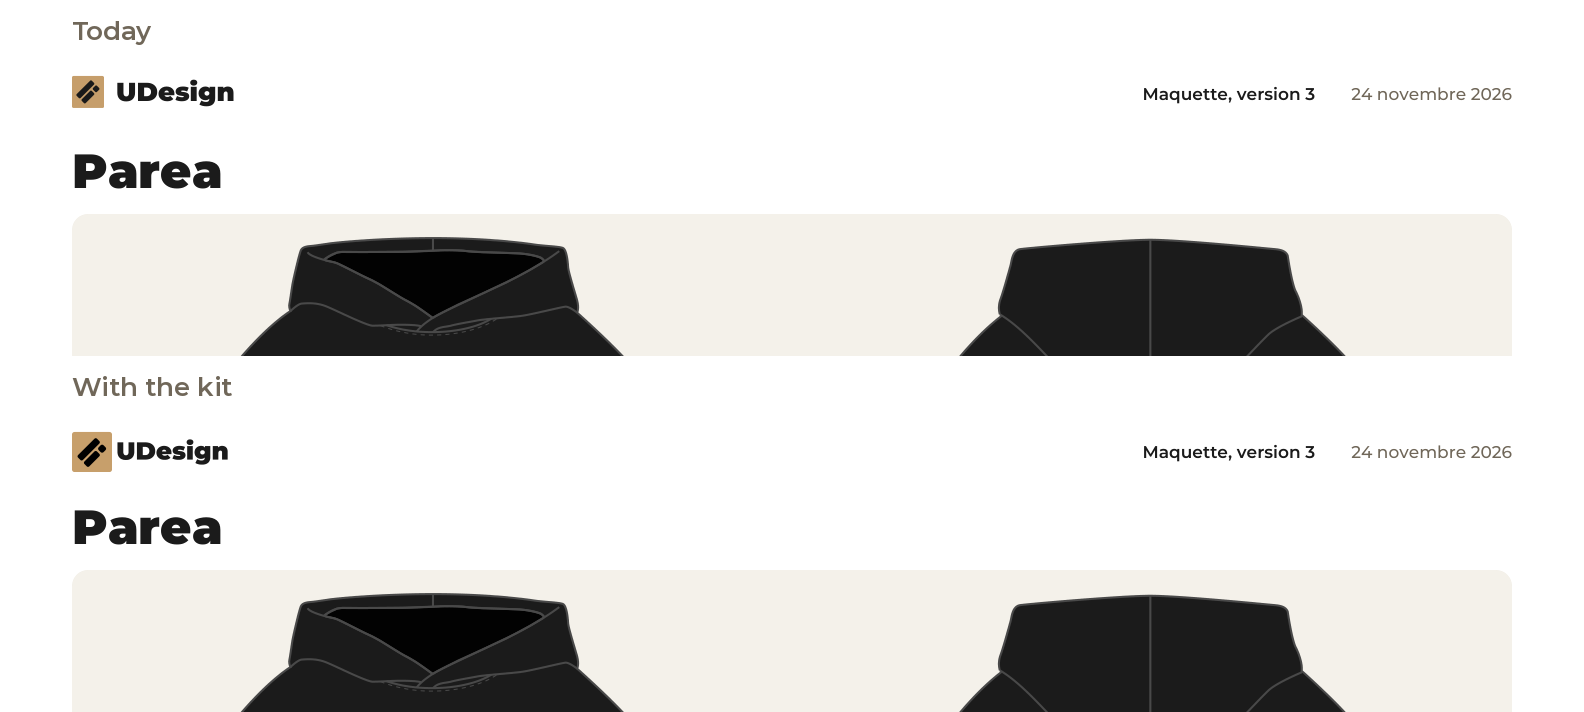
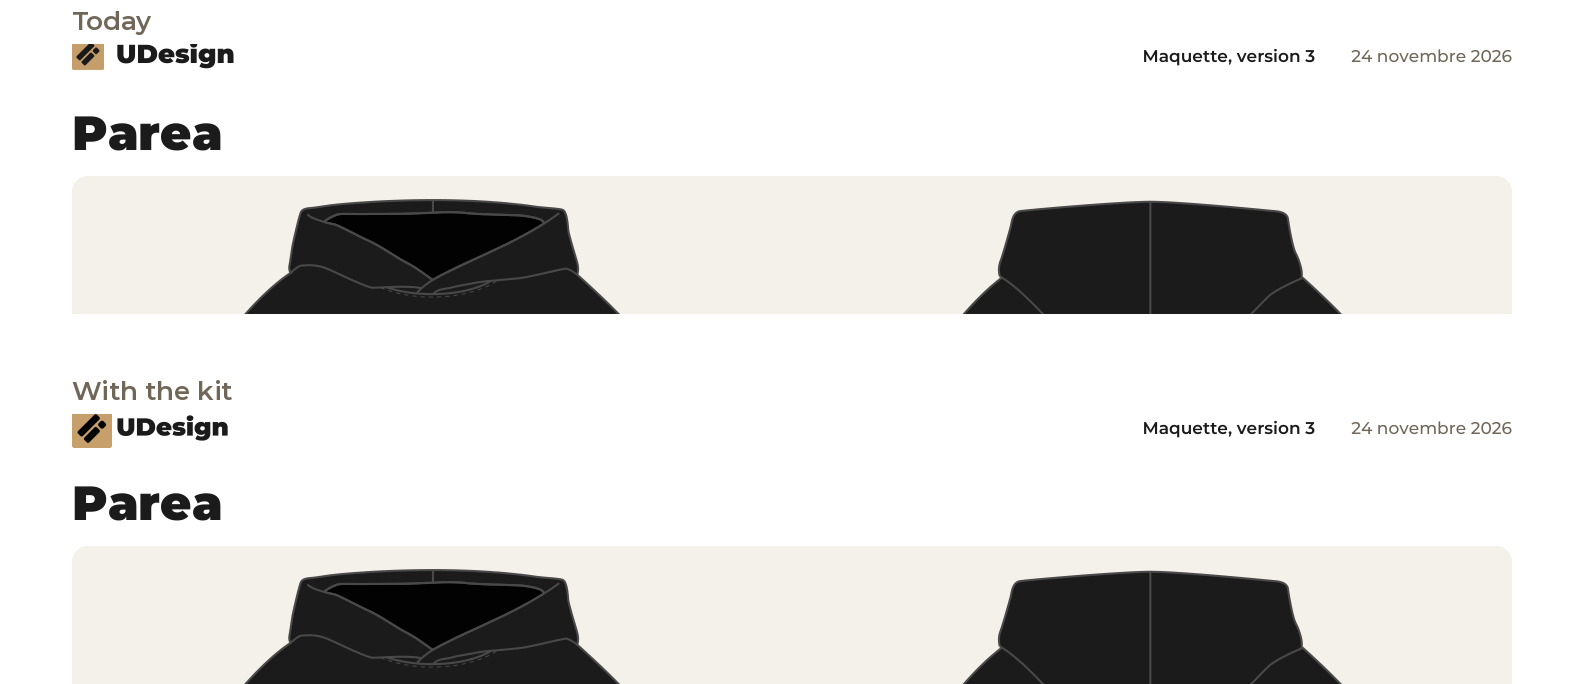
fix(print): second review pass
- footer(numbered=False) for a one-page document: the contact goes to the
  right margin.
- "swatch" everywhere (was "chip" on the sheet), as the token and method say.
- The zero-radius test asserts a plain rectangle, apart from the badge test.
- Header comparison image: each label sits with its own header.
- Showcase copy: "text" instead of a repeated "type".

Refs ECH-396

Claude-Session: https://claude.ai/code/session_01WJJUV36PGc4qv3p2RRFUpK

diff --git a/showcase/src/pages/Print.tsx b/showcase/src/pages/Print.tsx
@@ -20,7 +20,7 @@ export function Print() {
         </div>
         <p>
           Client PDFs: mockups, font comparisons, labels. Once approved and released, each PDF skill draws its header,
-          footer, type and cards with one kit, from print/print.tokens.json, so they all print the same logo, colours
+          footer, text and cards with one kit, from print/print.tokens.json, so they all print the same logo, colours
           and type. Today each skill draws its own.
         </p>
       </header>

diff --git a/print/reference.py b/print/reference.py
@@ -17,7 +17,7 @@ import pymupdf as fitz  # noqa: E402
 from udprint import Kit  # noqa: E402
 
 COLOURS = [
-    ('paper', 'The page'), ('ink', 'Text'), ('muted', 'Secondary text'), ('hairline', 'Rules, chip edges'),
+    ('paper', 'The page'), ('ink', 'Text'), ('muted', 'Secondary text'), ('hairline', 'Rules, swatch edges'),
     ('field', 'Under a product'), ('field-deep', 'Under a white product'), ('card', 'A decision card'),
     ('accent', 'Tile, badge, tag'),
 ]
@@ -106,7 +106,7 @@ def build(out, png_dir=None):
                          'caption', col, 2):
         kit.text(page, x, y, line, 'caption')
         y += 11
-    kit.text(page, x, y, 'Radii: field %g, card %g, tag %g, chip %g pt.' % tuple(
+    kit.text(page, x, y, 'Radii: field %g, card %g, tag %g, swatch %g pt.' % tuple(
         kit.t.number('radius.' + k) for k in ('field', 'card', 'tag', 'swatch')), 'caption')
     y += 26
     kit.text(page, x, y, 'Departures from the presentation profile', 'label')
@@ -115,7 +115,8 @@ def build(out, png_dir=None):
         y += 13
         kit.text(page, x, y, kit.ellipsize(line, 'body', col), 'body')
 
-    kit.footer(page, 'Reference sheet. Print at 100% to check sizes.', ['udesignproductions.com', '819 481-1022'])
+    kit.footer(page, 'Reference sheet. Print at 100% to check sizes.', ['udesignproductions.com', '819 481-1022'],
+               numbered=False)
     kit.finish(doc, out, 'UDesign print kit')
     pngs = []
     if png_dir:

diff --git a/print/tests/test_udprint.py b/print/tests/test_udprint.py
@@ -135,13 +135,18 @@ class ChromeTests(unittest.TestCase):
         with self.assertRaises(ValueError):
             self.kit.box(odd)
 
-    def test_badge_draws_its_method_icon_and_zero_radius_is_allowed(self):
+    def test_badge_draws_its_method_icon(self):
         page, b = self.kit.new_page(self.doc)
         self.kit.badge(page, (b.x0, b.y0, b.x0 + 28, b.y0 + 28), icon='embroidery')
         ink = tuple(round(c, 3) for c in hex_rgb(self.kit.t.color('ink')))
         drawn = [d for d in page.get_drawings() if tuple(round(c, 3) for c in (d.get('fill') or d.get('color') or ())) == ink]
         self.assertTrue(drawn)
-        self.kit.rrect(page, (b.x0, b.y0 + 40, b.x0 + 20, b.y0 + 60), 0, fill='card')
+
+    def test_a_zero_radius_draws_a_square_rectangle(self):
+        page, b = self.kit.new_page(self.doc)
+        self.kit.rrect(page, (b.x0, b.y0, b.x0 + 20, b.y0 + 20), 0, fill='card')
+        items = page.get_drawings()[0]['items']
+        self.assertEqual([i[0] for i in items], ['re'])
 
     def test_text_uses_the_role_size_and_colour(self):
         page, b = self.kit.new_page(self.doc)

diff --git a/print/udprint/draw.py b/print/udprint/draw.py
@@ -189,12 +189,13 @@ class Kit:
             return ty + LEAD_GAP + AFTER_LEAD
         return ty + AFTER_TITLE
 
-    def footer(self, page, note, contact=()):
+    def footer(self, page, note, contact=(), numbered=True):
         """Hairline, the note at left (what the page is: a visual, approximate sizes), the public contact items
-        at right, leaving room for the page number."""
+        at right, leaving room for the page number unless numbered=False (a one-page document)."""
         b = self.box(page)
         self.rule(page, b.x0, b.x1, b.y1 - FOOTER_RULE)
-        start = self._row(page, b.x1 - PAGE_NUMBER_ROOM, b.y1, list(contact), ('fine', 'fine'))
+        right = b.x1 - PAGE_NUMBER_ROOM if numbered else b.x1
+        start = self._row(page, right, b.y1, list(contact), ('fine', 'fine'))
         self.text(page, b.x0, b.y1, self.ellipsize(note, 'fine', start - b.x0 - ITEM_GAP), 'fine')
 
     def page_numbers(self, doc, pattern):
